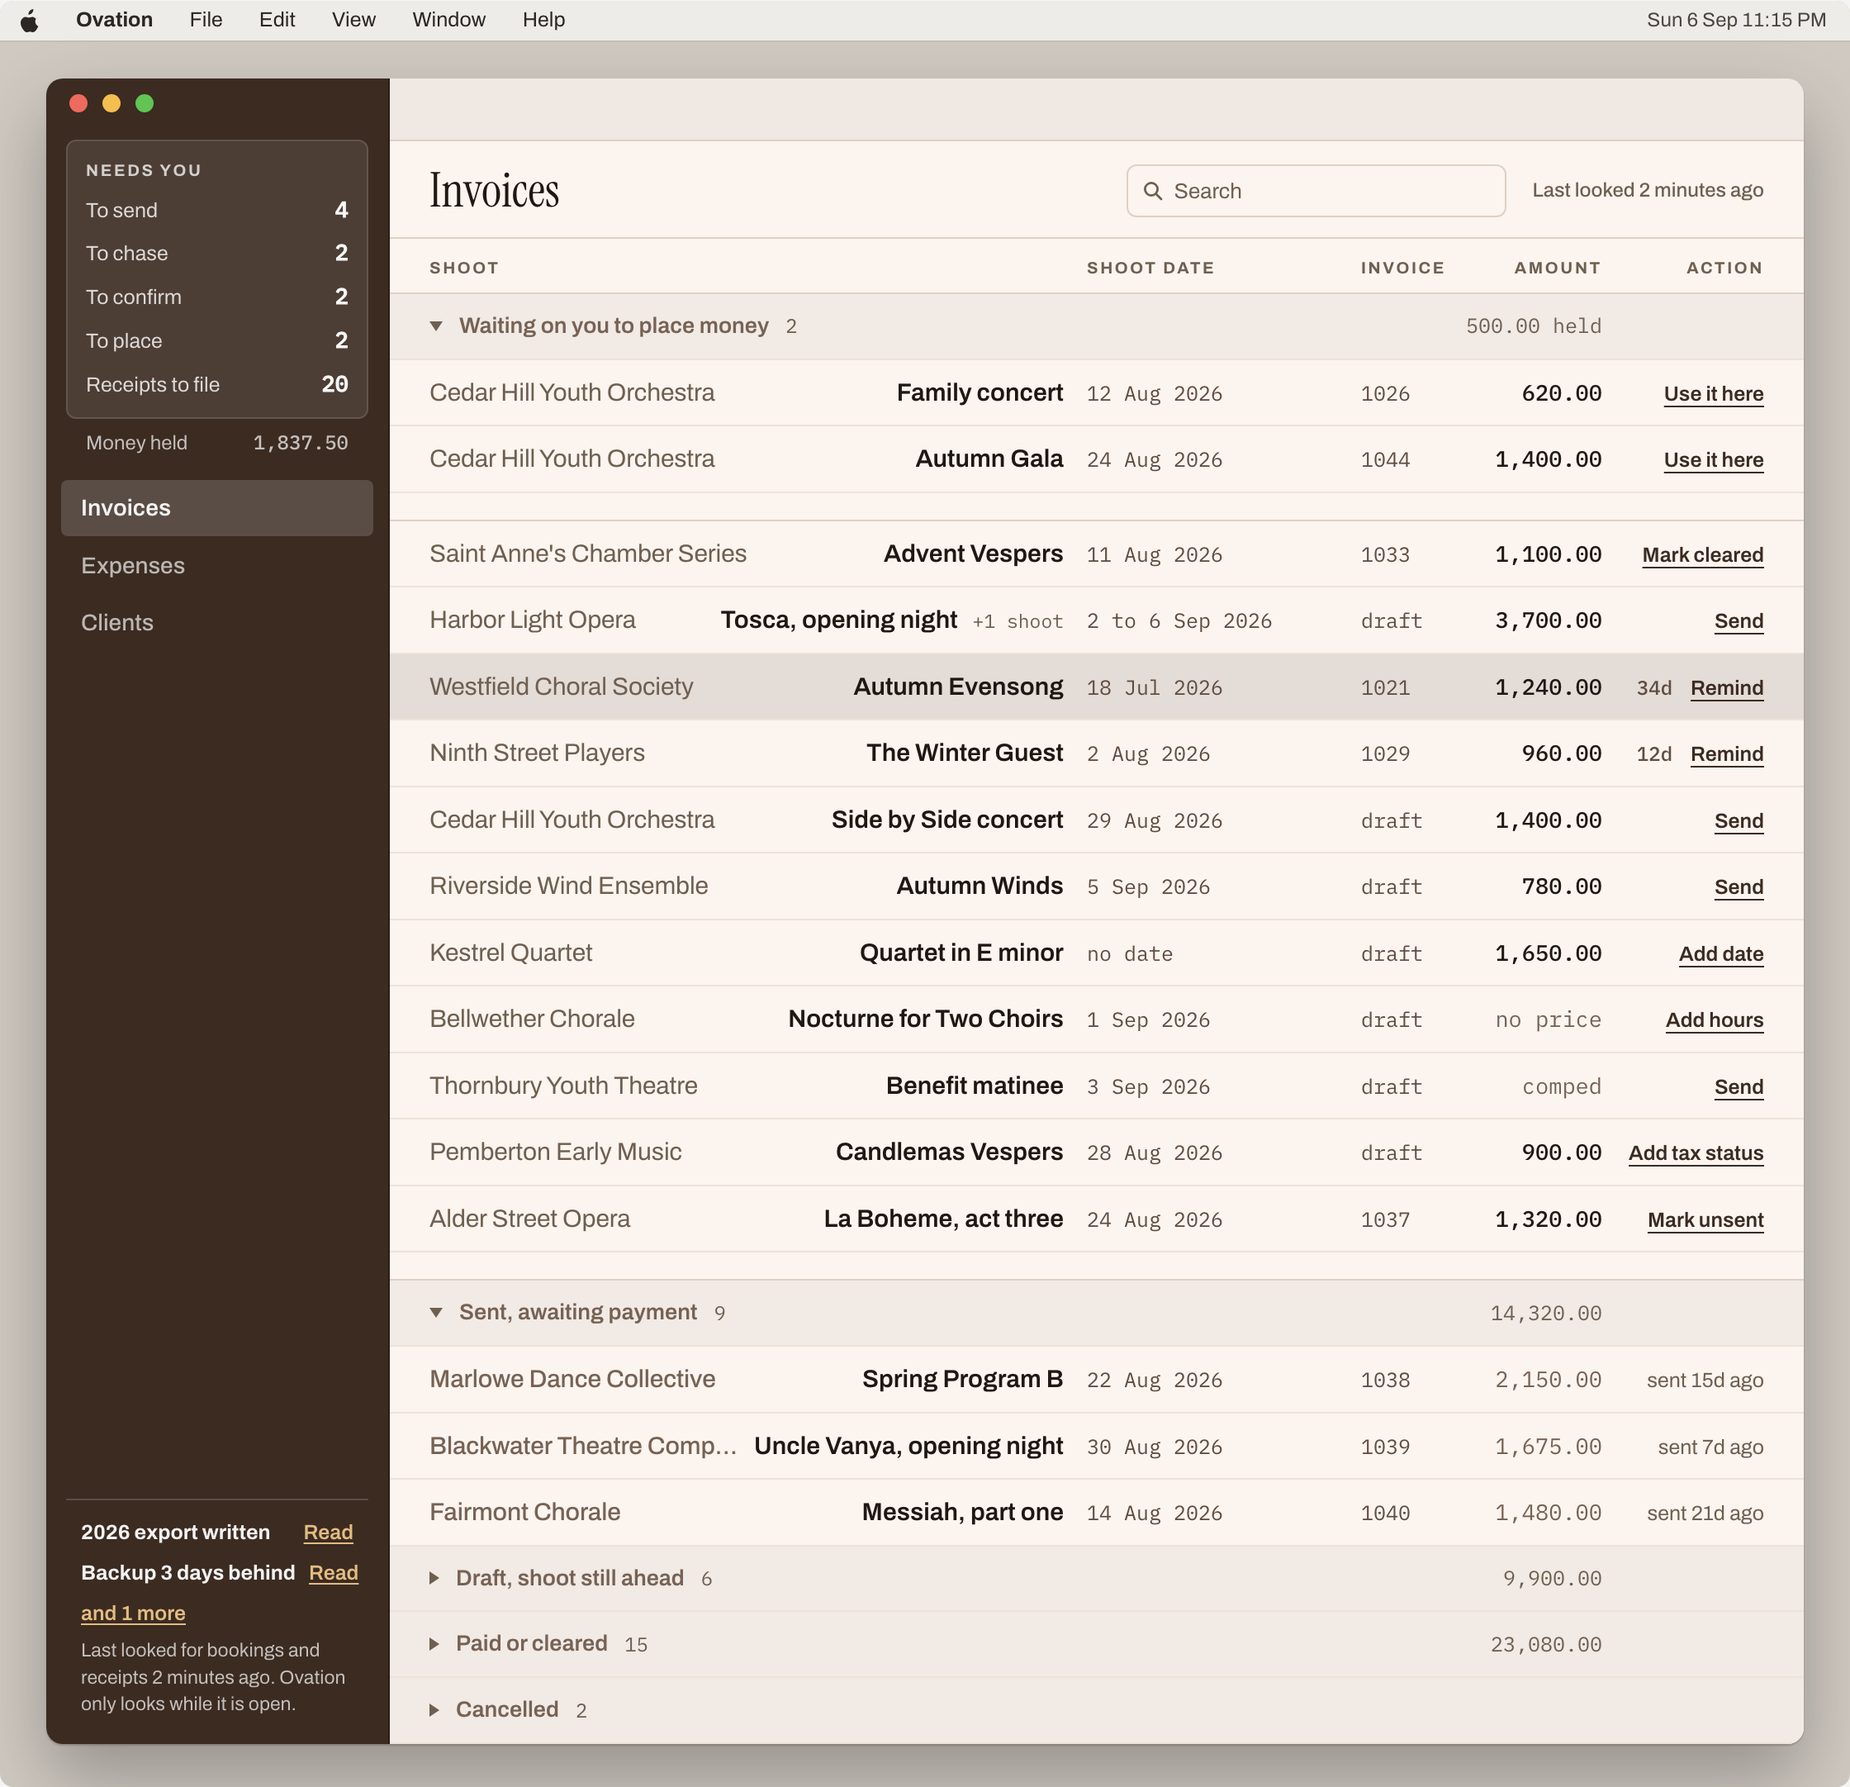
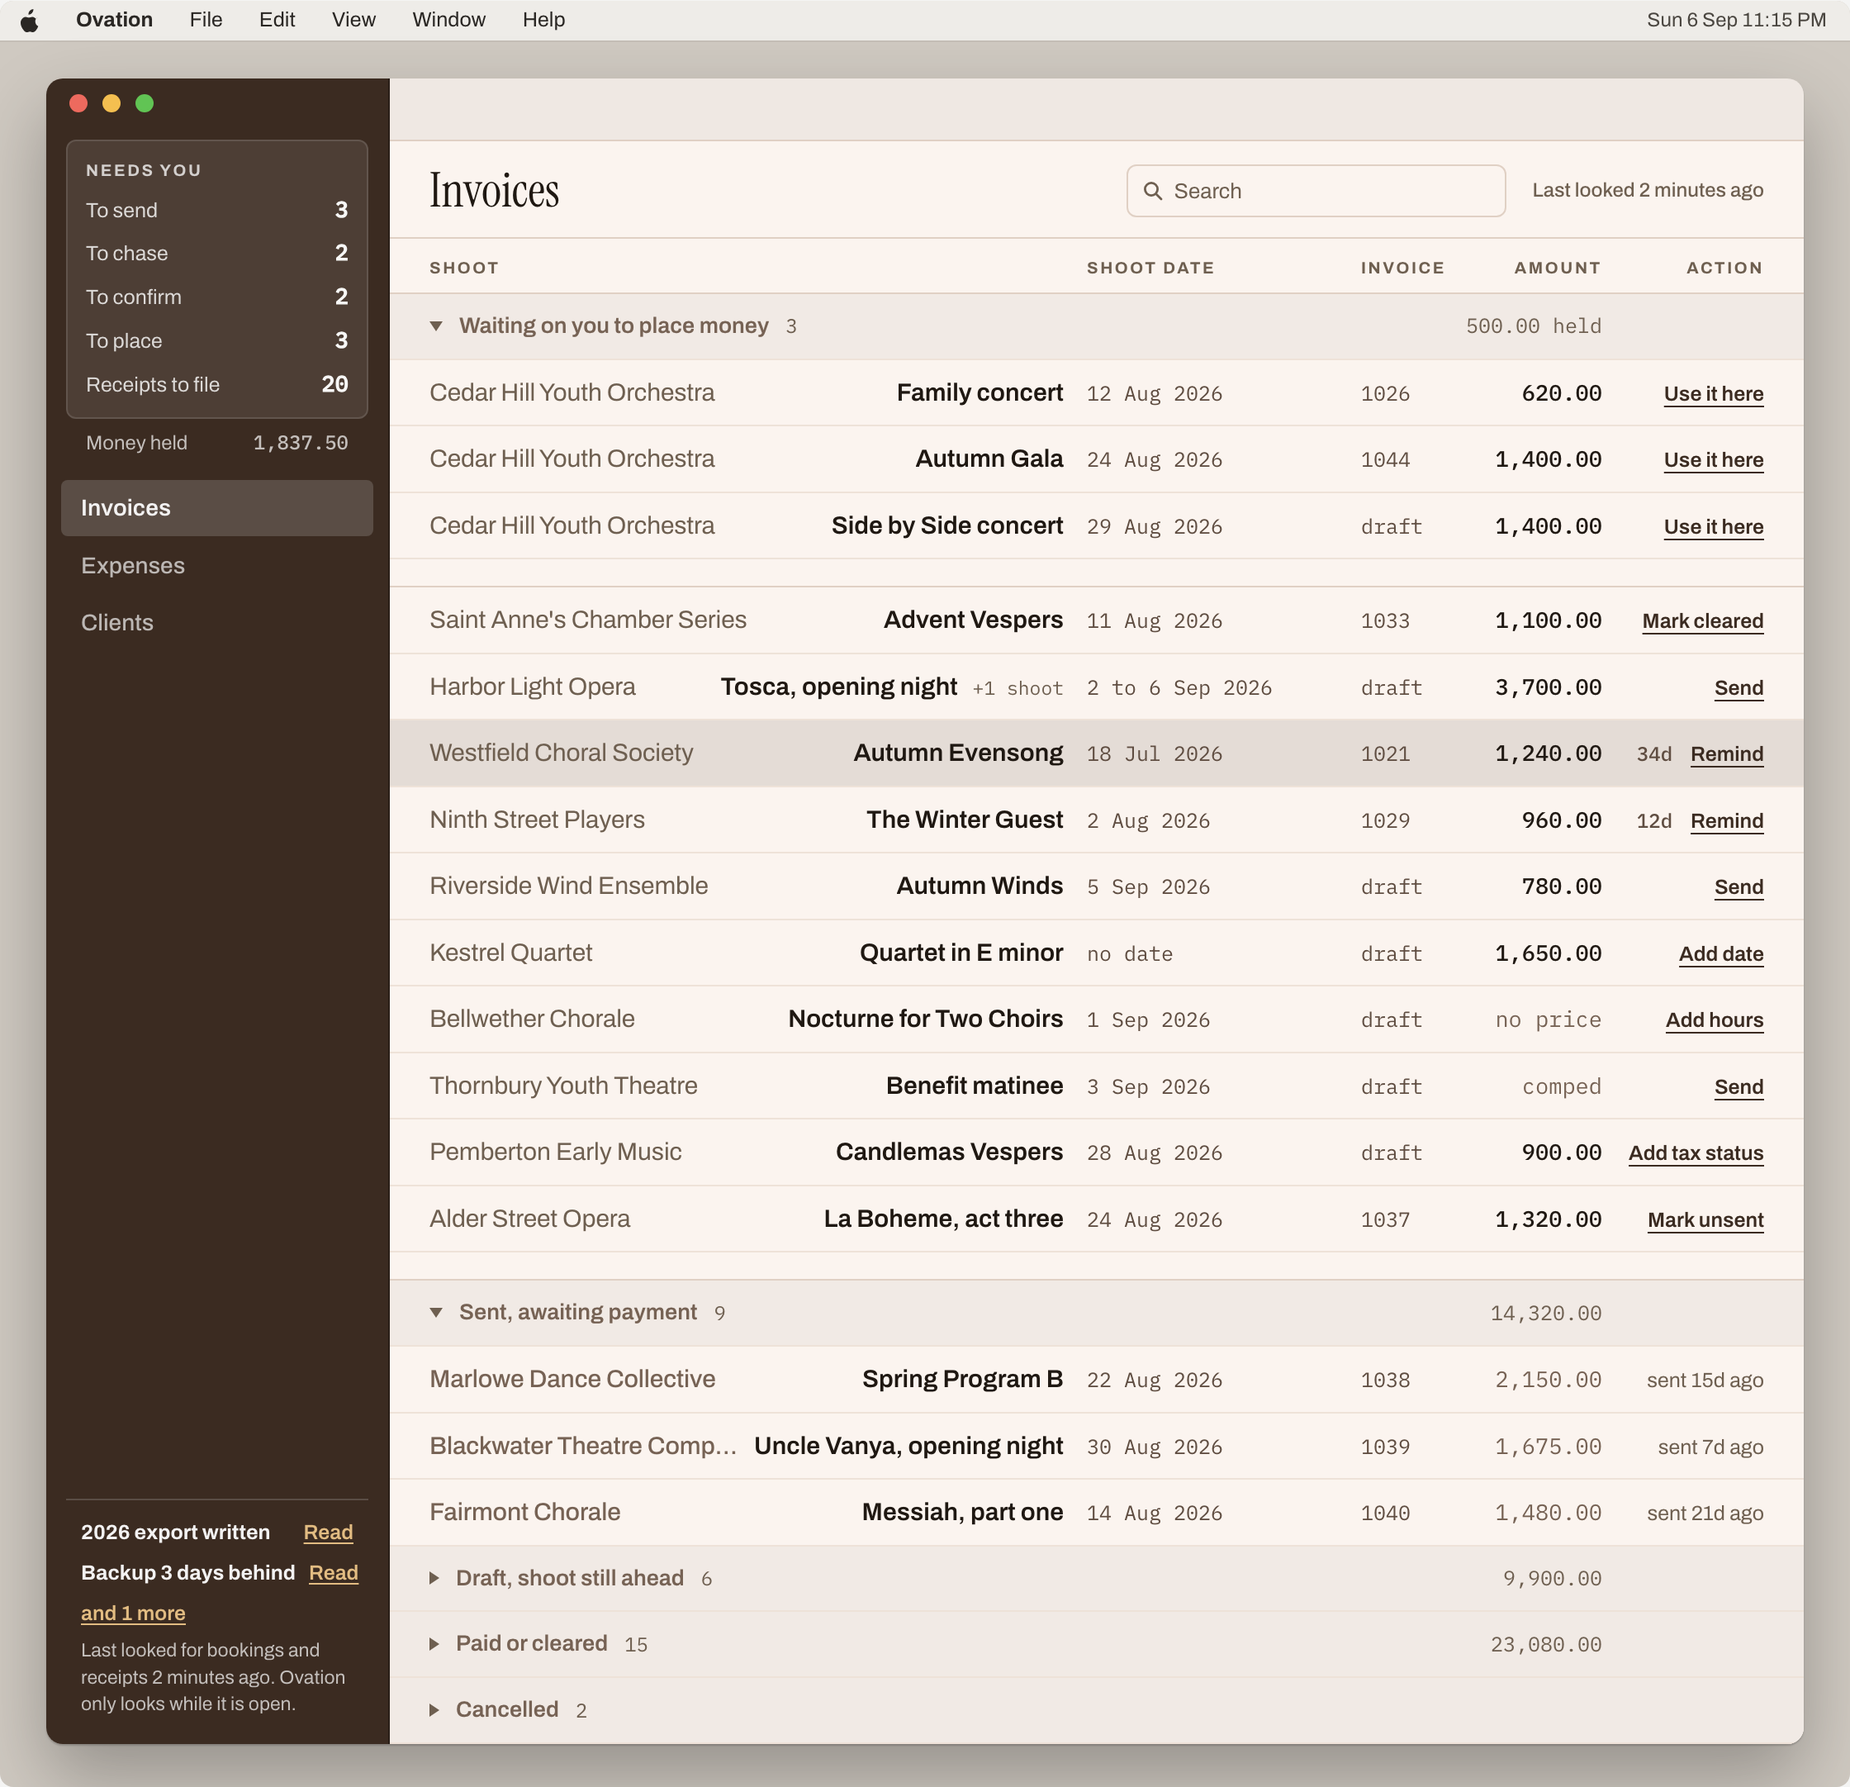
Draw Cedar Hill's draft in the held money band on the invoice list design (ovation#656)
Since ovation#453 a draft counts as an open invoice for held money, and the
built list moves Cedar Hill's draft into the band. The design record still
drew it below as a draft to send, because the file named its waiting rows by
invoice number and a draft has none. It now names them by client and shoot,
the band holds three, and the card follows from the same rows: To send 3 and
To place 3 on all five screens that draw the rail. The committed picture is
regenerated and the draws suite's mutation points at the renamed line.

The shot test's header said its priced drafts were drafts to send; they are
Cedar Hill's and sit in the band. The header now says so and the test
asserts the band's rows and that no row offers Send or Remind.

Claude-Session: https://claude.ai/code/session_016t6eFPEarCHh2xKoa67yAH

diff --git a/docs/design/invoice-list.html b/docs/design/invoice-list.html
@@ -445,8 +445,8 @@ color: var(--faint); }
       one whose client has no tax status. Each says what is missing, <i>Add date</i>, <i>Add
       hours</i>, <i>Add tax status</i>, so the reader meets one situation three times rather than
       three kinds of row.</p>
-      <p><b>The card does not move for any of them.</b> It still reads To send 4 with all three
-      present. Its lines count things you can act on from here, and pressing the action on a blocked
+      <p><b>The card does not move for any of them.</b> None of the three is in its To send
+      figure. Its lines count things you can act on from here, and pressing the action on a blocked
       draft does nothing. That is PRD 46a applied rather than extended, and it is now PRD 46f.</p>
       <p>Dan, 2026-09-19 (ovation#129), with <i>Add tax status</i> and <i>Open client</i> drawn side
       by side on the real screen. Naming the destination rather than the missing thing would make
@@ -581,10 +581,18 @@ function groupsFor() { return [
        ovation#190. PRD 14j is about exactly that client: the money they are
        holding could settle either invoice and not both, so Ovation applies it to
        neither and asks. A branch no fixture can reach is the branch that ships
-       untested, and this one could not be drawn here at all. */
+       untested, and this one could not be drawn here at all.
+       It has THREE since ovation#453: the draft to send further down is Cedar
+       Hill's too, and a draft counts as an open invoice (Dan, 2026-09-23, PRD
+       14j), so the waiting band moves all three. */
     { c: "Cedar Hill Youth Orchestra", s: "Family concert", d: "12 Aug 2026", n: "1026", a: "620.00", age: "29d", act: "Remind" },
     { c: "Cedar Hill Youth Orchestra", s: "Autumn Gala", d: "24 Aug 2026", n: "1044", a: "1,400.00", age: "17d", act: "Remind" }]},
   { sum: "2,180.00", rows: [
+    /* CEDAR HILL'S THIRD OPEN INVOICE, AND A DRAFT (ovation#453). Its own action
+       would be Send, and it is written so, because the row is what its dates make
+       it; the waiting band takes it out of this group and draws it with `Use it
+       here`, as it does the two sent invoices above. Since ovation#595 an UNPRICED
+       draft stays out of the band, and this one is priced. */
     { c: "Cedar Hill Youth Orchestra", s: "Side by Side concert", d: "29 Aug 2026", n: "draft", a: "1,400.00", act: "Send" },
     /* AN INVOICE THAT TOOK A NUMBER AND WAS NEVER SENT (ovation#364). PRD 10c
        numbers an invoice when Review is pressed, because the number is printed on
@@ -599,8 +607,8 @@ function groupsFor() { return [
        cannot occur.
        IT IS A STATE ON AN EXISTING ROW RATHER THAN A ROW OF ITS OWN, because it
        is still an invoice waiting to be sent and the rail is chrome shared with
-       three other design files: a sixth sendable invoice here would make this
-       file say To send 5 while they say 4.
+       three other design files: a further sendable invoice here would make this
+       file say To send 4 while they say 3.
        THE COLUMN SAYS `draft` ANYWAY (Dan, 2026-09-19, PRD 46g), with 1041 and the
        word drawn side by side on this screen. The Invoice column means the client
        has this number, not that a number was reserved, so the row reads like every
@@ -621,10 +629,17 @@ function groupsFor() { return [
   { sum: "1,320.00", rows: [
     { c: "Alder Street Opera", s: "La Boheme, act three", d: "24 Aug 2026", n: "1037", a: "1,320.00", act: "Mark unsent" }]}
 ]; }
-/* The invoices that client's money could settle, named by NUMBER so the group
-   moves them rather than holding a second copy of them, and the balance itself,
-   which is the same $500.00 the invoice screen's fixture holds. */
-var WAITING = ["1026", "1044"];
+/* The invoices that client's money could settle, NAMED so the group moves them
+   rather than holding a second copy of them, and the balance itself, which is the
+   same $500.00 the invoice screen's fixture holds.
+   NAMED BY CLIENT AND SHOOT, NOT BY NUMBER. They were named by number, and a
+   draft has none, so a list of numbers could never name Cedar Hill's draft: the
+   fixture drew it outside the band for that reason alone, and ovation#453 found
+   the product's rule had been read off that accident rather than decided. */
+var WAITING = ["Cedar Hill Youth Orchestra / Family concert",
+               "Cedar Hill Youth Orchestra / Autumn Gala",
+               "Cedar Hill Youth Orchestra / Side by Side concert"];
+function isWaiting(r) { return WAITING.indexOf(r.c + " / " + r.s) !== -1; }
 var HELD_ON_CLIENT = "500.00";
 
 /* THE CARD IS A ROLLUP, AND ITS FIGURES ARE COUNTED RATHER THAN TYPED (PRD 46a,
@@ -661,7 +676,7 @@ var CARD_LINES = [
    count and the stamp have to read it the same way the list does. Deriving it
    here, once, is what stops the card counting a row in the group it was taken
    out of. */
-function actOf(r) { return WAITING.indexOf(r.n) !== -1 ? "Use it here" : r.act; }
+function actOf(r) { return isWaiting(r) ? "Use it here" : r.act; }
 
 function cardLineFor(act) {
   for (var i = 0; i < CARD_LINES.length; i++) {
@@ -1022,7 +1037,7 @@ function windowFor(layout) {
      once and read twice. */
   var waiting = [];
   groupsFor().forEach(function (g) {
-    g.rows.forEach(function (r) { if (WAITING.indexOf(r.n) !== -1) waiting.push(r); });
+    g.rows.forEach(function (r) { if (isWaiting(r)) waiting.push(r); });
   });
   if (waiting.length) {
     var band = el("div", "disc open");
@@ -1056,7 +1071,7 @@ function windowFor(layout) {
       scroll.append(b);
     }
     g.rows.forEach(function (r, i) {
-      if (WAITING.indexOf(r.n) !== -1) return;
+      if (isWaiting(r)) return;
       var n = rowEl(r, i === 0);
       if (r.c === "Westfield Choral Society") n.classList.add("sel");
       if (closeNext) { n.classList.add("afterwaiting"); closeNext = false; }
@@ -1093,7 +1108,8 @@ function windowFor(layout) {
    THE CARD IS NOT NARROWED: it counts what needs you, and the round held it
    identical in both options.
    The SEARCH control below steps through no search, the round's own search
-   (Cedar Hill, 6 invoices: 2 waiting on held money, 1 draft to send, 3 paid)
+   (Cedar Hill, 6 invoices: 3 waiting on held money, its draft among them since
+   ovation#453, and 3 paid)
    and a search matching nothing, whose sentence was drafted with the app. */
 var SEARCHES = [null, "Cedar Hill", "Linden Park"];
 var SEARCH = null;

diff --git a/OvationHostedTests/InvoiceListShotTests.swift b/OvationHostedTests/InvoiceListShotTests.swift
@@ -16,14 +16,17 @@
 // claim real in a way two identical filed pictures never could (L1).
 //
 // AT THE REAL POPULATION, thirteen rows rather than two: drafts waiting on their
-// times, drafts priced and ready to send, an invoice whose send could not be
-// settled, sent invoices still open, and two checks waiting to clear, one of
-// them late (ovation#546), with Cedar Hill holding 500.00 against several open
-// invoices so the held money band leads. It does NOT carry every one of the eight
-// action words, and that is stated rather than implied: `Remind` needs an overdue
-// invoice and none is in this fixture. What it does carry is one word of each
-// KIND, a live one and two with nowhere to go, which is what this picture is for
-// (L11).
+// times, two priced drafts, an invoice whose send could not be settled, sent
+// invoices still open, and two checks waiting to clear, one of them late
+// (ovation#546), with Cedar Hill holding 500.00 against four open invoices so the
+// held money band leads. TWO OF THOSE FOUR ARE THE PRICED DRAFTS, which are Cedar
+// Hill's: since ovation#453 a draft counts as an open invoice (PRD 14j), so they
+// are drawn in the band offering `Use it here`, not among the drafts to send.
+// It does NOT carry every one of the eight action words, and that is stated
+// rather than implied, and asserted below: `Remind` needs an overdue invoice and
+// none is in this fixture, and `Send` needs a priced draft whose client holds no
+// money, and none is either. What it does carry is one word of each KIND, a live
+// one and two with nowhere to go, which is what this picture is for (L11).
 //
 // OPT IN, AND IT SAYS WHEN IT DID NOTHING (L98).
 import AppKit
@@ -86,6 +89,14 @@ struct InvoiceListShotTests {
         #expect(Array(presenter.bands.map(\.band).prefix(2))
                 == [.toPlace, .checkNotClearedAfterSevenDays])
         #expect(presenter.bands.contains { $0.band == .checkNotCleared })
+        // ovation#453, ovation#656: what the header says this picture holds, held
+        // here rather than only written. It said the priced drafts were drawn as
+        // drafts to send after they had joined the held money band.
+        let place = try #require(presenter.bands.first { $0.band == .toPlace })
+        #expect(Set(place.rows.map(\.shoot))
+                == ["Winter Gala", "Advent Carols", "Spring Series", "Summer Proms"])
+        #expect(!rows.contains { $0.action == InvoiceListPresenter.Action.send })
+        #expect(!rows.contains { $0.action == InvoiceListPresenter.Action.remind })
 
         // ovation#449: A SEARCH, and a search that finds nothing, each in both
         // appearances, dark asserted to draw the same as light.
@@ -167,7 +178,7 @@ struct InvoiceListShotTests {
             ready.orderedShoots.first?.shotUntil = ClockTime("21:00")
             all.append(ready)
         }
-        // Sent and overdue.
+        // Sent 40 days ago, and NOT overdue: every invoice here is due on day 14.
         for (index, name) in ["Epiphany Recital", "New Year Concert"].enumerated() {
             let sent = invoice(ashgrove, name, on: day(-40 - index), hours: Hours(whole: 3),
                                number: Int64(1_030 + index))

diff --git a/docs/design/clients.html b/docs/design/clients.html
@@ -1348,8 +1348,8 @@ function buildClientsScreen() {
      (ovation#190, PRD 46d), which is what keeps every line in this card counting
      the same unit. The card is chrome and is the same on every screen, so it is
      here as well as on the list where it was settled. */
-  var lines = QUIET ? [] : [["To send", 4], ["To chase", 2], ["To confirm", 2],
-                            ["To place", 2], ["Receipts to file", 20]];
+  var lines = QUIET ? [] : [["To send", 3], ["To chase", 2], ["To confirm", 2],
+                            ["To place", 3], ["Receipts to file", 20]];
   if (lines.length === 0) {
     card.append(el("div", "quiet", "Nothing waiting"));
   } else {

diff --git a/docs/design/receipts.html b/docs/design/receipts.html
@@ -558,10 +558,10 @@ var CATEGORIES = ["Gear", "Software", "Travel", "Insurance", "Contract labour",
    on every screen. The filed expenses are counted by no line: they need
    nothing. */
 var CARD_LINES = [
-  { label: "To send",          fixed: "4" },
+  { label: "To send",          fixed: "3" },
   { label: "To chase",         fixed: "2" },
   { label: "To confirm",       fixed: "2" },
-  { label: "To place",         fixed: "2" },
+  { label: "To place",         fixed: "3" },
   { label: "Receipts to file", rows: RECEIPTS }
 ];
 function cardFigure(line) { return line.rows ? String(line.rows.length) : line.fixed; }

diff --git a/docs/design/invoice.html b/docs/design/invoice.html
@@ -3497,7 +3497,7 @@ function buildInvoiceScreen() {
   if (QUIET) {
     card.append(el("div", "quiet", "Nothing waiting"));
   } else {
-    [["To send", 4], ["To chase", 2], ["To confirm", 2], ["To place", 2],
+    [["To send", 3], ["To chase", 2], ["To confirm", 2], ["To place", 3],
      ["Receipts to file", 20]].forEach(function (pr) {
       var ln = el("div", "ln");
       ln.append(el("span", null, pr[0]), el("b", null, String(pr[1])));

diff --git a/docs/design/review-send.html b/docs/design/review-send.html
@@ -868,7 +868,7 @@ function shell(main, extra) {
   if (QUIET) {
     card.append(rsEl("quiet", "Nothing waiting"));
   } else {
-    [["To send", 4], ["To chase", 2], ["To confirm", 2], ["To place", 2],
+    [["To send", 3], ["To chase", 2], ["To confirm", 2], ["To place", 3],
      ["Receipts to file", 20]]
       .forEach(function (pr) {
         var ln = rsEl("ln");

diff --git a/docs/design/README.md b/docs/design/README.md
@@ -101,6 +101,16 @@ at all: PRD 14h is about OPEN invoices. The fixture now carries one client with 
 invoices, which this list had none of, because a branch no fixture can reach is the branch that
 ships untested.
 
+**That reading was reversed on 2026-09-23, and the fixture now draws the reversal** (ovation#453,
+ovation#656, PRD 14j). Dan decided a draft counts as an open invoice for 14j: a client with money
+on account and more than one open invoice, drafts included, has it applied to none of them, and
+their drafts join this group. The built list moved Cedar Hill's draft, `Side by Side concert`, into
+the group from then on, while this file went on drawing it below as a draft to send, because the
+file named its waiting rows by invoice number and a draft has none. It now names them by client
+and shoot, the group holds three, and the card follows from the same rows: `To place 3` and
+`To send 3` on all five screens that draw the rail. An unpriced draft still stays out (ovation#595),
+and one whose send could not be settled is neither a draft nor sent and is not counted.
+
 **Money held against a client with NO open invoice gets nothing here, and that is a decision**
 (second round, same day, PRD 46e). It has no invoice to group, so the candidates were different:
 nothing at all, a second quiet line under the rail's `Money held` figure naming the part with no
